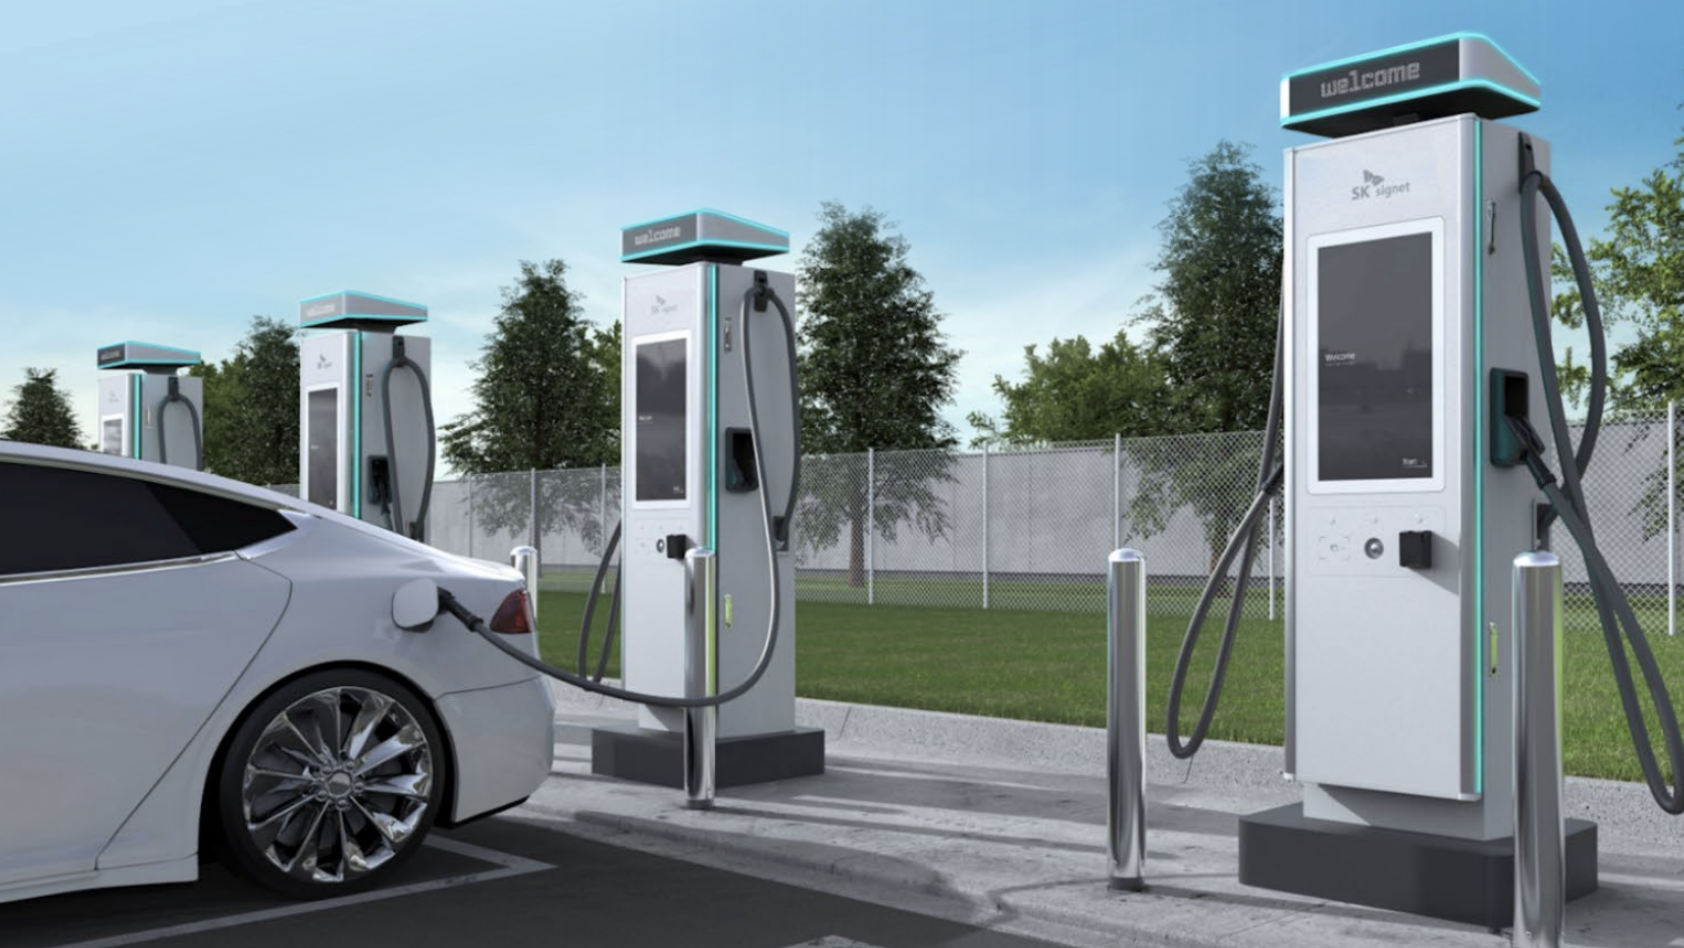
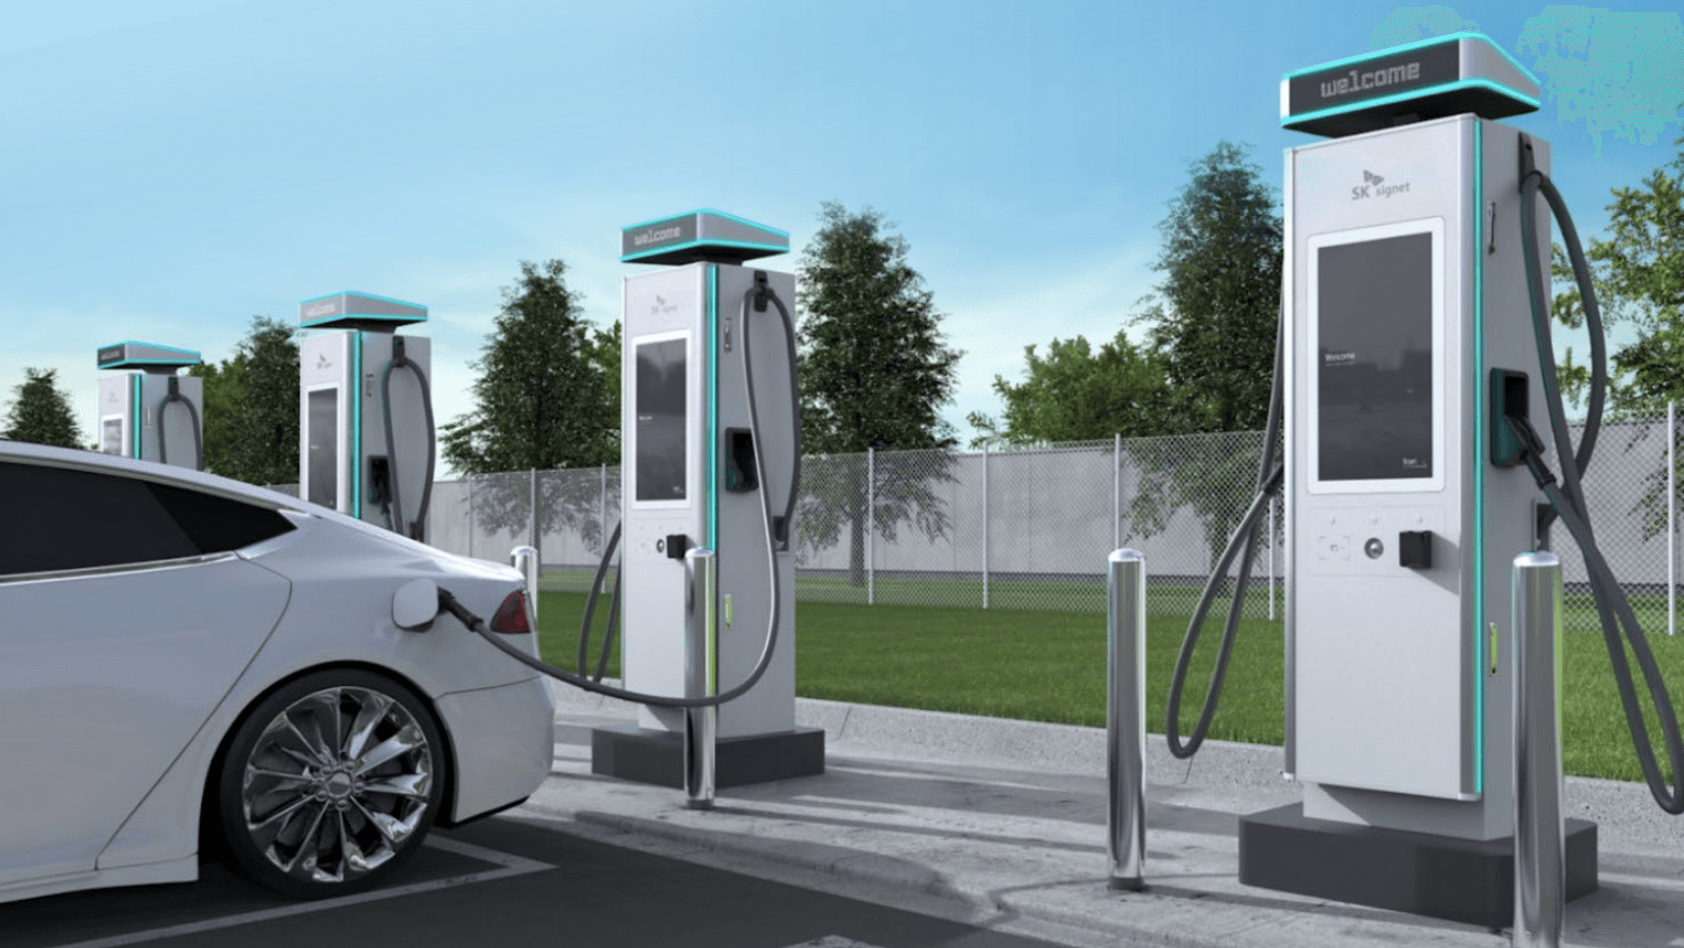
updated ux and features pictures

diff --git a/index.html b/index.html
@@ -170,6 +170,14 @@
             border-bottom: 1px solid rgba(0,0,0,0.05);
         }
 
+        /* ===== INCENTIVES SECTION ===== */
+        .incentives-grid {
+            background-image:
+                linear-gradient(rgba(0,0,0,0.03) 1px, transparent 1px),
+                linear-gradient(90deg, rgba(0,0,0,0.03) 1px, transparent 1px);
+            background-size: 28px 28px;
+        }
+
         /* ===== SHIMMER BUTTON ===== */
         .shimmer-btn { position: relative; overflow: hidden; }
         .shimmer-btn::after {
@@ -218,7 +226,7 @@
             </div>
 
             <a href="#contact"
-                class="shimmer-btn hidden md:inline-flex items-center gap-2 bg-brand-primary text-white px-4 py-2 rounded-xl shadow-soft hover:bg-emerald-800 transition">
+                class="hidden md:inline-flex items-center gap-2 bg-brand-primary text-white px-4 py-2 rounded-xl shadow-soft hover:bg-emerald-800 transition">
                 <i class="fa-solid fa-plug-circle-bolt"></i> <span>Install Chargers</span>
             </a>
         </div>
@@ -241,6 +249,7 @@
     <!-- Hero -->
     <section id="hero" class="relative overflow-hidden">
         <div class="aurora-bg"></div>
+        <div class="absolute bottom-0 left-0 right-0 h-36 bg-gradient-to-b from-transparent to-white pointer-events-none z-20"></div>
 
         <div class="relative z-10 max-w-7xl mx-auto px-4 pt-16 pb-24 grid lg:grid-cols-2 gap-10 items-center">
             <div>
@@ -296,7 +305,7 @@
     </section>
 
     <!-- Features -->
-    <section id="features" class="dot-grid bg-brand-graybg/60 py-20">
+    <section id="features" class="bg-white py-5">
         <div class="max-w-7xl mx-auto px-4">
             <div class="max-w-2xl mb-12">
                 <h2 class="text-3xl font-semibold tracking-tight">Key Features</h2>
@@ -306,191 +315,169 @@
 
             <div class="grid md:grid-cols-2 lg:grid-cols-3 gap-6">
                 <!-- Feature Card -->
-                <article class="reveal reveal-d1 spotlight-card card-hover bg-white rounded-2xl p-6 border border-black/5">
-                    <div class="card-icon text-brand-primary text-2xl mb-4"><i class="fa-solid fa-bolt"></i></div>
-                    <h3 class="font-semibold mb-2">Level 2 to DCFC — your call</h3>
-                    <p class="text-sm text-brand-charcoal/80">We size the install to your actual traffic. A 7.2 kW workplace charger or a 150 kW DC fast unit — no upselling hardware you won’t use.</p>
+                <article class="reveal reveal-d1 group card-hover rounded-2xl overflow-hidden border border-black/8 relative h-72">
+                    <img src="/images/Fast & Reliable Charg.png" alt="EV Charging" class="absolute inset-0 w-full h-full object-cover transition-transform duration-500 ease-out group-hover:scale-105" />
+                    <div class="absolute inset-0 bg-gradient-to-t from-black/85 via-black/30 to-transparent"></div>
+                    <div class="absolute bottom-0 left-0 right-0 p-5 text-white">
+                        <div class="text-xl mb-1.5"><i class="fa-solid fa-bolt"></i></div>
+                        <h3 class="font-semibold text-base mb-1">Fast & Reliable Charging</h3>
+                        <p class="text-xs text-white/75 leading-relaxed">From Level 2 workplace chargers to high-power DC fast chargers — scalable for every site.</p>
+                    </div>
                 </article>
 
-                <article class="reveal reveal-d2 spotlight-card card-hover bg-white rounded-2xl p-6 border border-black/5">
-                    <div class="card-icon text-brand-accent text-2xl mb-4"><i class="fa-solid fa-chart-line"></i></div>
-                    <h3 class="font-semibold mb-2">See every session, from anywhere</h3>
-                    <p class="text-sm text-brand-charcoal/80">Check live usage, pull billing reports, restart a port remotely. One tab — not a training course.</p>
+                <article class="reveal reveal-d2 group card-hover rounded-2xl overflow-hidden border border-black/8 relative h-72">
+                    <img src="/images/Smart Management.png" alt="Smart Management" class="absolute inset-0 w-full h-full object-cover transition-transform duration-500 ease-out group-hover:scale-105" />
+                    <div class="absolute inset-0 bg-gradient-to-t from-black/85 via-black/30 to-transparent"></div>
+                    <div class="absolute bottom-0 left-0 right-0 p-5 text-white">
+                        <div class="text-xl mb-1.5"><i class="fa-solid fa-chart-line"></i></div>
+                        <h3 class="font-semibold text-base mb-1">Smart Management</h3>
+                        <p class="text-xs text-white/75 leading-relaxed">Real-time monitoring, usage reporting, remote management, and alerts in one dashboard.</p>
+                    </div>
                 </article>
 
-                <article class="reveal reveal-d3 spotlight-card card-hover bg-white rounded-2xl p-6 border border-black/5">
-                    <div class="card-icon text-brand-accent text-2xl mb-4"><i class="fa-solid fa-shield-alt"></i></div>
-                    <h3 class="font-semibold mb-2">Built for parking lots, not showrooms</h3>
-                    <p class="text-sm text-brand-charcoal/80">IP54-rated, UL-listed hardware that doesn’t care about door dings, rain, or a rough winter. It just keeps charging.</p>
+                <article class="reveal reveal-d3 group card-hover rounded-2xl overflow-hidden border border-black/8 relative h-72">
+                    <img src="/images/Durability & Safety.png" alt="Durability" class="absolute inset-0 w-full h-full object-cover transition-transform duration-500 ease-out group-hover:scale-105" />
+                    <div class="absolute inset-0 bg-gradient-to-t from-black/85 via-black/30 to-transparent"></div>
+                    <div class="absolute bottom-0 left-0 right-0 p-5 text-white">
+                        <div class="text-xl mb-1.5"><i class="fa-solid fa-shield-alt"></i></div>
+                        <h3 class="font-semibold text-base mb-1">Durability & Safety</h3>
+                        <p class="text-xs text-white/75 leading-relaxed">All-weather enclosures, rigorous safety certifications, and vandal-resistant design.</p>
+                    </div>
                 </article>
-            </div>
-            <div class="reveal features-banner mt-12 rounded-2xl p-6 flex items-start gap-4">
-                <div class="text-brand-primary text-xl"><i class="fa-solid fa-circle-info"></i></div>
-                <p class="text-sm text-brand-charcoal/80">Most sites are operational within 6–8 weeks of signing. We handle permitting, utility coordination, and installation — you hand us a parking lot, we hand you a working charger.</p>
             </div>
         </div>
-    </section>
-
-    <!-- Why Choose -->
-    <div class="max-w-7xl mx-auto px-4">
-
-    </div>
     </section>
 
     <!-- Incentives Banner -->
-    <section id="incentives" class="relative py-16">
-        <div
-            class="absolute inset-0 -z-10 opacity-20 bg-[radial-gradient(circle_at_20%_20%,#29B6F6,transparent_30%),radial-gradient(circle_at_80%_30%,#66BB6A,transparent_30%),radial-gradient(circle_at_50%_80%,#2E7D32,transparent_30%)]">
-        </div>
-        <div class="max-w-7xl mx-auto px-4">
-            <div
-                class="reveal rounded-2xl border border-black/5 bg-white p-8 shadow-soft flex flex-col md:flex-row items-center justify-between gap-6">
-                <div>
-                    <h3 class="text-2xl font-semibold">Rebates & Incentives</h3>
-                    <p class="mt-2 text-brand-charcoal/80 max-w-2xl">We’ll help you navigate federal, state, and utility
-                        programs to reduce upfront cost and accelerate ROI.</p>
-                </div>
-                <a href="#contact"
-                    class="inline-flex items-center gap-2 bg-brand-primary text-white px-5 py-3 rounded-xl shadow-soft hover:bg-emerald-800">
-                    <i class="fa-solid fa-file-invoice-dollar"></i>
-                    <span>Check Eligibility</span>
-                </a>
-            </div>
+    <section id="incentives" class="relative py-28 bg-white overflow-hidden">
+        <div class="incentives-grid absolute inset-0"></div>
+        <div class="absolute inset-0 bg-gradient-to-b from-white/80 via-transparent to-white/80"></div>
+
+        <div class="reveal relative z-10 max-w-3xl mx-auto px-4 text-center">
+            <p class="text-brand-accent text-xs font-semibold tracking-widest uppercase mb-5">Rebates & Incentives</p>
+            <h2 class="text-4xl sm:text-5xl font-semibold text-brand-charcoal leading-tight">
+                Less paperwork. More rebates.
+                <span class="text-brand-primary"> We handle both.</span>
+            </h2>
+            <p class="mt-6 text-brand-charcoal/60 text-lg max-w-xl mx-auto leading-relaxed">
+                We navigate federal tax credits, state rebates, and utility incentives on your behalf — so you capture every dollar you’re entitled to.
+            </p>
+            <a href="#contact"
+                class="mt-10 inline-flex items-center gap-2 bg-brand-primary text-white px-6 py-3 rounded-xl shadow-soft hover:bg-emerald-700 transition">
+                <i class="fa-solid fa-file-invoice-dollar"></i>
+                <span>Check Your Eligibility</span>
+            </a>
         </div>
     </section>
 
     <!-- ROI Calculator -->
-    <section id="roi" class="py-20 bg-brand-graybg/60">
+    <!-- ROI + Contact side by side -->
+    <section class="py-20 bg-gradient-to-br from-green-50/30 to-sky-50/30">
         <div class="max-w-7xl mx-auto px-4">
-            <div class="max-w-2xl mb-10">
-                <h2 class="text-3xl font-semibold tracking-tight">Simple ROI Estimator</h2>
-                <p class="mt-3 text-brand-charcoal/80">Estimate monthly revenue and net after electricity costs. (For
-                    illustration only.)</p>
-            </div>
+            <div class="reveal grid lg:grid-cols-2 gap-20 items-center">
 
-            <div class="grid lg:grid-cols-2 gap-8">
-                <form id="roiForm"
-                    class="reveal reveal-d1 bg-white rounded-2xl p-6 border border-black/5 shadow-soft grid sm:grid-cols-2 gap-4">
-                    <label class="grid gap-1 text-sm">
-                        <span>Number of Ports</span>
-                        <input type="number" min="1" value="4" id="ports"
-                            class="px-3 py-2 rounded-xl border border-black/10 focus:outline-none focus:ring-2 focus:ring-brand-accent" />
-                    </label>
-                    <label class="grid gap-1 text-sm">
-                        <span>Sessions per Port / Day</span>
-                        <input type="number" min="0" step="0.1" value="6" id="sessions"
-                            class="px-3 py-2 rounded-xl border border-black/10 focus:outline-none focus:ring-2 focus:ring-brand-accent" />
-                    </label>
-                    <label class="grid gap-1 text-sm">
-                        <span>kWh per Session</span>
-                        <input type="number" min="0" step="0.1" value="22" id="kwh"
-                            class="px-3 py-2 rounded-xl border border-black/10 focus:outline-none focus:ring-2 focus:ring-brand-accent" />
-                    </label>
-                    <label class="grid gap-1 text-sm">
-                        <span>Price to Driver ($/kWh)</span>
-                        <input type="number" min="0" step="0.01" value="0.39" id="price"
-                            class="px-3 py-2 rounded-xl border border-black/10 focus:outline-none focus:ring-2 focus:ring-brand-accent" />
-                    </label>
-                    <label class="grid gap-1 text-sm">
-                        <span>Electricity Cost ($/kWh)</span>
-                        <input type="number" min="0" step="0.01" value="0.17" id="cost"
-                            class="px-3 py-2 rounded-xl border border-black/10 focus:outline-none focus:ring-2 focus:ring-brand-accent" />
-                    </label>
-                    <label class="grid gap-1 text-sm">
-                        <span>Operating Days / Month</span>
-                        <input type="number" min="1" max="31" value="30" id="days"
-                            class="px-3 py-2 rounded-xl border border-black/10 focus:outline-none focus:ring-2 focus:ring-brand-accent" />
-                    </label>
-                    <div class="sm:col-span-2 flex items-center gap-3 pt-2">
-                        <button type="button" id="calcBtn"
-                            class="inline-flex items-center gap-2 bg-brand-primary text-white px-5 py-3 rounded-xl shadow-soft hover:bg-emerald-800">
-                            <i class="fa-solid fa-calculator"></i>
-                            <span>Calculate</span>
-                        </button>
-                        <button type="reset"
-                            class="inline-flex items-center gap-2 px-5 py-3 rounded-xl border border-black/10 hover:bg-black/5">
-                            <i class="fa-solid fa-rotate-left"></i>
-                            <span>Reset</span>
-                        </button>
-                    </div>
-                </form>
+                <!-- ROI Calculator (left, no card) -->
+                <div id="roi" class="self-center">
+                    <h2 class="text-3xl font-semibold tracking-tight">Simple ROI Estimator</h2>
+                    <p class="mt-2 text-brand-charcoal/80 text-sm">Estimate monthly revenue and net after electricity costs. (For illustration only.)</p>
 
-                <div class="reveal reveal-d2 bg-white rounded-2xl p-6 border border-black/5 shadow-soft grid gap-4">
-                    <div class="flex items-center gap-3">
-                        <span class="text-brand-primary text-2xl"><i class="fa-solid fa-wallet"></i></span>
-                        <h3 class="font-semibold text-xl">Results</h3>
-                    </div>
-                    <div class="grid sm:grid-cols-2 gap-4 text-sm">
-                        <div class="p-4 rounded-xl bg-brand-graybg/80 border border-black/5">
-                            <p class="text-brand-charcoal/60">Gross Monthly Revenue</p>
-                            <p id="gross" class="text-2xl font-semibold mt-1">$0</p>
+                    <form id="roiForm" class="mt-6">
+                        <div class="grid sm:grid-cols-2 gap-4">
+                            <label class="grid gap-1 text-sm">
+                                <span>Number of Ports</span>
+                                <input type="number" min="1" value="4" id="ports"
+                                    class="px-3 py-2 rounded-xl border border-black/10 focus:outline-none focus:ring-2 focus:ring-brand-accent" />
+                            </label>
+                            <label class="grid gap-1 text-sm">
+                                <span>Sessions per Port / Day</span>
+                                <input type="number" min="0" step="0.1" value="6" id="sessions"
+                                    class="px-3 py-2 rounded-xl border border-black/10 focus:outline-none focus:ring-2 focus:ring-brand-accent" />
+                            </label>
+                            <label class="grid gap-1 text-sm">
+                                <span>kWh per Session</span>
+                                <input type="number" min="0" step="0.1" value="22" id="kwh"
+                                    class="px-3 py-2 rounded-xl border border-black/10 focus:outline-none focus:ring-2 focus:ring-brand-accent" />
+                            </label>
+                            <label class="grid gap-1 text-sm">
+                                <span>Price to Driver ($/kWh)</span>
+                                <input type="number" min="0" step="0.01" value="0.39" id="price"
+                                    class="px-3 py-2 rounded-xl border border-black/10 focus:outline-none focus:ring-2 focus:ring-brand-accent" />
+                            </label>
+                            <label class="grid gap-1 text-sm">
+                                <span>Electricity Cost ($/kWh)</span>
+                                <input type="number" min="0" step="0.01" value="0.17" id="cost"
+                                    class="px-3 py-2 rounded-xl border border-black/10 focus:outline-none focus:ring-2 focus:ring-brand-accent" />
+                            </label>
+                            <label class="grid gap-1 text-sm">
+                                <span>Operating Days / Month</span>
+                                <input type="number" min="1" max="31" value="30" id="days"
+                                    class="px-3 py-2 rounded-xl border border-black/10 focus:outline-none focus:ring-2 focus:ring-brand-accent" />
+                            </label>
                         </div>
-                        <div class="p-4 rounded-xl bg-brand-graybg/80 border border-black/5">
-                            <p class="text-brand-charcoal/60">Monthly Electricity Cost</p>
-                            <p id="elec" class="text-2xl font-semibold mt-1">$0</p>
+                        <div class="flex items-center gap-3 mt-5">
+                            <button type="button" id="calcBtn"
+                                class="inline-flex items-center gap-2 bg-brand-primary text-white px-5 py-2.5 rounded-xl shadow-soft hover:bg-emerald-800">
+                                <i class="fa-solid fa-calculator"></i>
+                                <span>Calculate</span>
+                            </button>
+                            <button type="reset"
+                                class="inline-flex items-center bg-white gap-2 px-5 py-2.5 rounded-xl border border-black/10 hover:bg-black/5 text-sm">
+                                <i class="fa-solid fa-rotate-left"></i>
+                                <span>Reset</span>
+                            </button>
                         </div>
-                        <div class="p-4 rounded-xl bg-brand-graybg/80 border border-black/5 sm:col-span-2">
-                            <p class="text-brand-charcoal/60">Estimated Net (Before O&M)</p>
-                            <p id="net" class="text-3xl font-semibold mt-1 text-brand-primary">$0</p>
+                        <div class="mt-6 pt-5 border-t border-black/6 grid grid-cols-3 gap-4">
+                            <div>
+                                <p class="text-xs text-brand-charcoal/50 mb-0.5">Gross Revenue</p>
+                                <p id="gross" class="text-xl font-semibold">$0</p>
+                            </div>
+                            <div>
+                                <p class="text-xs text-brand-charcoal/50 mb-0.5">Electricity Cost</p>
+                                <p id="elec" class="text-xl font-semibold">$0</p>
+                            </div>
+                            <div>
+                                <p class="text-xs text-brand-charcoal/50 mb-0.5">Est. Net</p>
+                                <p id="net" class="text-xl font-semibold text-brand-primary">$0</p>
+                            </div>
                         </div>
-                    </div>
-                    <p class="text-xs text-brand-charcoal/70">Assumes even utilization across ports. Excludes demand
-                        charges, networking, and maintenance. For planning purposes only.</p>
+                        <p class="mt-3 text-xs text-brand-charcoal/40">Assumes even utilization. Excludes demand charges, networking, and maintenance. For planning purposes only.</p>
+                    </form>
                 </div>
-            </div>
-        </div>
-    </section>
 
-    <!-- Contact / CTA -->
-    <section id="contact" class="py-20">
-        <div class="max-w-7xl mx-auto px-4">
-            <div class="reveal rounded-2xl border border-black/5 bg-white p-8 shadow-soft grid lg:grid-cols-2 gap-8">
-                <div>
+                <!-- Contact (right, in card) -->
+                <div id="contact" class="bg-white rounded-2xl p-8 border border-black/5 shadow-soft">
                     <h2 class="text-3xl font-semibold tracking-tight">Bring EV Charging to Your Site</h2>
-                    <p class="mt-3 text-brand-charcoal/80">Tell us about your property and goals — we’ll tailor a
-                        solution and estimate incentives in your area.</p>
-                    <ul class="mt-6 grid gap-3 text-sm">
-                        <li class="inline-flex items-center gap-3"><i
-                                class="fa-solid fa-clipboard-check text-brand-primary"></i> Site assessment & layout
-                        </li>
-                        <li class="inline-flex items-center gap-3"><i
-                                class="fa-solid fa-plug-circle-bolt text-brand-secondary"></i> Hardware + software
-                            bundle</li>
-                        <li class="inline-flex items-center gap-3"><i
-                                class="fa-solid fa-file-signature text-brand-accent"></i> Rebate paperwork assistance
-                        </li>
+                    <p class="mt-2 text-brand-charcoal/80 text-sm">Tell us about your property and goals — we’ll tailor a solution and estimate incentives in your area.</p>
+                    <ul class="mt-4 grid gap-2 text-sm">
+                        <li class="inline-flex items-center gap-3"><i class="fa-solid fa-clipboard-check text-brand-primary"></i> Site assessment & layout</li>
+                        <li class="inline-flex items-center gap-3"><i class="fa-solid fa-plug-circle-bolt text-brand-secondary"></i> Hardware + software bundle</li>
+                        <li class="inline-flex items-center gap-3"><i class="fa-solid fa-file-signature text-brand-accent"></i> Rebate paperwork assistance</li>
                     </ul>
+                    <form class="mt-6 grid grid-cols-2 gap-4" action="https://formsubmit.co/[email redacted]" method="POST">
+                        <input type="hidden" name="_subject" value="New Quote Request — Apple Grid" />
+                        <input type="hidden" name="_captcha" value="false" />
+                        <input type="hidden" name="_template" value="basic" />
+                        <input type="hidden" name="_next" value="https://applegrid.com/">
+                        <input name="full_name" required class="col-span-2 sm:col-span-1 px-3 py-3 rounded-xl border border-black/10 focus:outline-none focus:ring-2 focus:ring-brand-accent" placeholder="Full Name" />
+                        <input name="email" type="email" required class="col-span-2 sm:col-span-1 px-3 py-3 rounded-xl border border-black/10 focus:outline-none focus:ring-2 focus:ring-brand-accent" placeholder="Email" />
+                        <input name="company" class="col-span-2 px-3 py-3 rounded-xl border border-black/10 focus:outline-none focus:ring-2 focus:ring-brand-accent" placeholder="Company / Property" />
+                        <select name="property_type" class="col-span-2 px-3 py-3 rounded-xl border border-black/10 bg-white focus:outline-none focus:ring-2 focus:ring-brand-accent">
+                            <option value="">Property Type</option>
+                            <option>Commercial Office</option>
+                            <option>Retail / Hospitality</option>
+                            <option>Multifamily</option>
+                            <option>Municipal / Campus</option>
+                            <option>Fleet / Depot</option>
+                        </select>
+                        <textarea name="message" rows="4" class="col-span-2 px-3 py-3 rounded-xl border border-black/10 focus:outline-none focus:ring-2 focus:ring-brand-accent" placeholder="What are you looking to build? (e.g., 6 Level 2 ports + 1 DCFC)"></textarea>
+                        <button type="submit" class="col-span-2 inline-flex items-center justify-center gap-2 bg-brand-primary text-white px-5 py-3 rounded-xl shadow-soft hover:bg-emerald-800">
+                            <i class="fa-solid fa-paper-plane"></i>
+                            <span>Request a Quote</span>
+                        </button>
+                        <p class="col-span-2 text-xs text-brand-charcoal/70">By submitting, you agree to be contacted about Apple Grid services.</p>
+                    </form>
                 </div>
-                <form class="grid grid-cols-2 gap-4">
-                    <input
-                        class="col-span-2 sm:col-span-1 px-3 py-3 rounded-xl border border-black/10 focus:outline-none focus:ring-2 focus:ring-brand-accent"
-                        placeholder="Full Name" />
-                    <input
-                        class="col-span-2 sm:col-span-1 px-3 py-3 rounded-xl border border-black/10 focus:outline-none focus:ring-2 focus:ring-brand-accent"
-                        placeholder="Email" />
-                    <input
-                        class="col-span-2 px-3 py-3 rounded-xl border border-black/10 focus:outline-none focus:ring-2 focus:ring-brand-accent"
-                        placeholder="Company / Property" />
-                    <select
-                        class="col-span-2 px-3 py-3 rounded-xl border border-black/10 bg-white focus:outline-none focus:ring-2 focus:ring-brand-accent">
-                        <option>Property Type</option>
-                        <option>Commercial Office</option>
-                        <option>Retail / Hospitality</option>
-                        <option>Multifamily</option>
-                        <option>Municipal / Campus</option>
-                        <option>Fleet / Depot</option>
-                    </select>
-                    <textarea rows="4"
-                        class="col-span-2 px-3 py-3 rounded-xl border border-black/10 focus:outline-none focus:ring-2 focus:ring-brand-accent"
-                        placeholder="What are you looking to build? (e.g., 6 Level 2 ports + 1 DCFC)"></textarea>
-                    <button
-                        class="col-span-2 inline-flex items-center justify-center gap-2 bg-brand-primary text-white px-5 py-3 rounded-xl shadow-soft hover:bg-emerald-800">
-                        <i class="fa-solid fa-paper-plane"></i>
-                        <span>Request a Quote</span>
-                    </button>
-                    <p class="col-span-2 text-xs text-brand-charcoal/70">By submitting, you agree to be contacted about
-                        Apple Grid services.</p>
-                </form>
+
             </div>
         </div>
     </section>
@@ -533,6 +520,10 @@
 
     <!-- Minimal JS -->
     <script>
+        // Always start at top on reload
+        if ('scrollRestoration' in history) history.scrollRestoration = 'manual';
+        window.scrollTo(0, 0);
+
         // ===== SPOTLIGHT CARDS =====
         document.querySelectorAll('.spotlight-card').forEach(card => {
             card.addEventListener('mousemove', e => {
@@ -607,13 +598,10 @@
                 const pricePerKwh = parseFloat(price.value) || 0;
                 const costPerKwh = parseFloat(cost.value) || 0;
                 const operatingDays = parseFloat(days.value) || 0;
-                // Total monthly kWh used
                 const totalKwh = numPorts * sessionsPerDay * kwhPerSession * operatingDays;
-                // Gross revenue and electricity cost
                 const gross = totalKwh * pricePerKwh;
                 const elecCost = totalKwh * costPerKwh;
                 const net = gross - elecCost;
-                // Update results with formatting
                 grossEl.textContent = `$${gross.toLocaleString(undefined, { minimumFractionDigits: 0, maximumFractionDigits: 0 })}`;
                 elecEl.textContent = `$${elecCost.toLocaleString(undefined, { minimumFractionDigits: 0, maximumFractionDigits: 0 })}`;
                 netEl.textContent = `$${net.toLocaleString(undefined, { minimumFractionDigits: 0, maximumFractionDigits: 0 })}`;